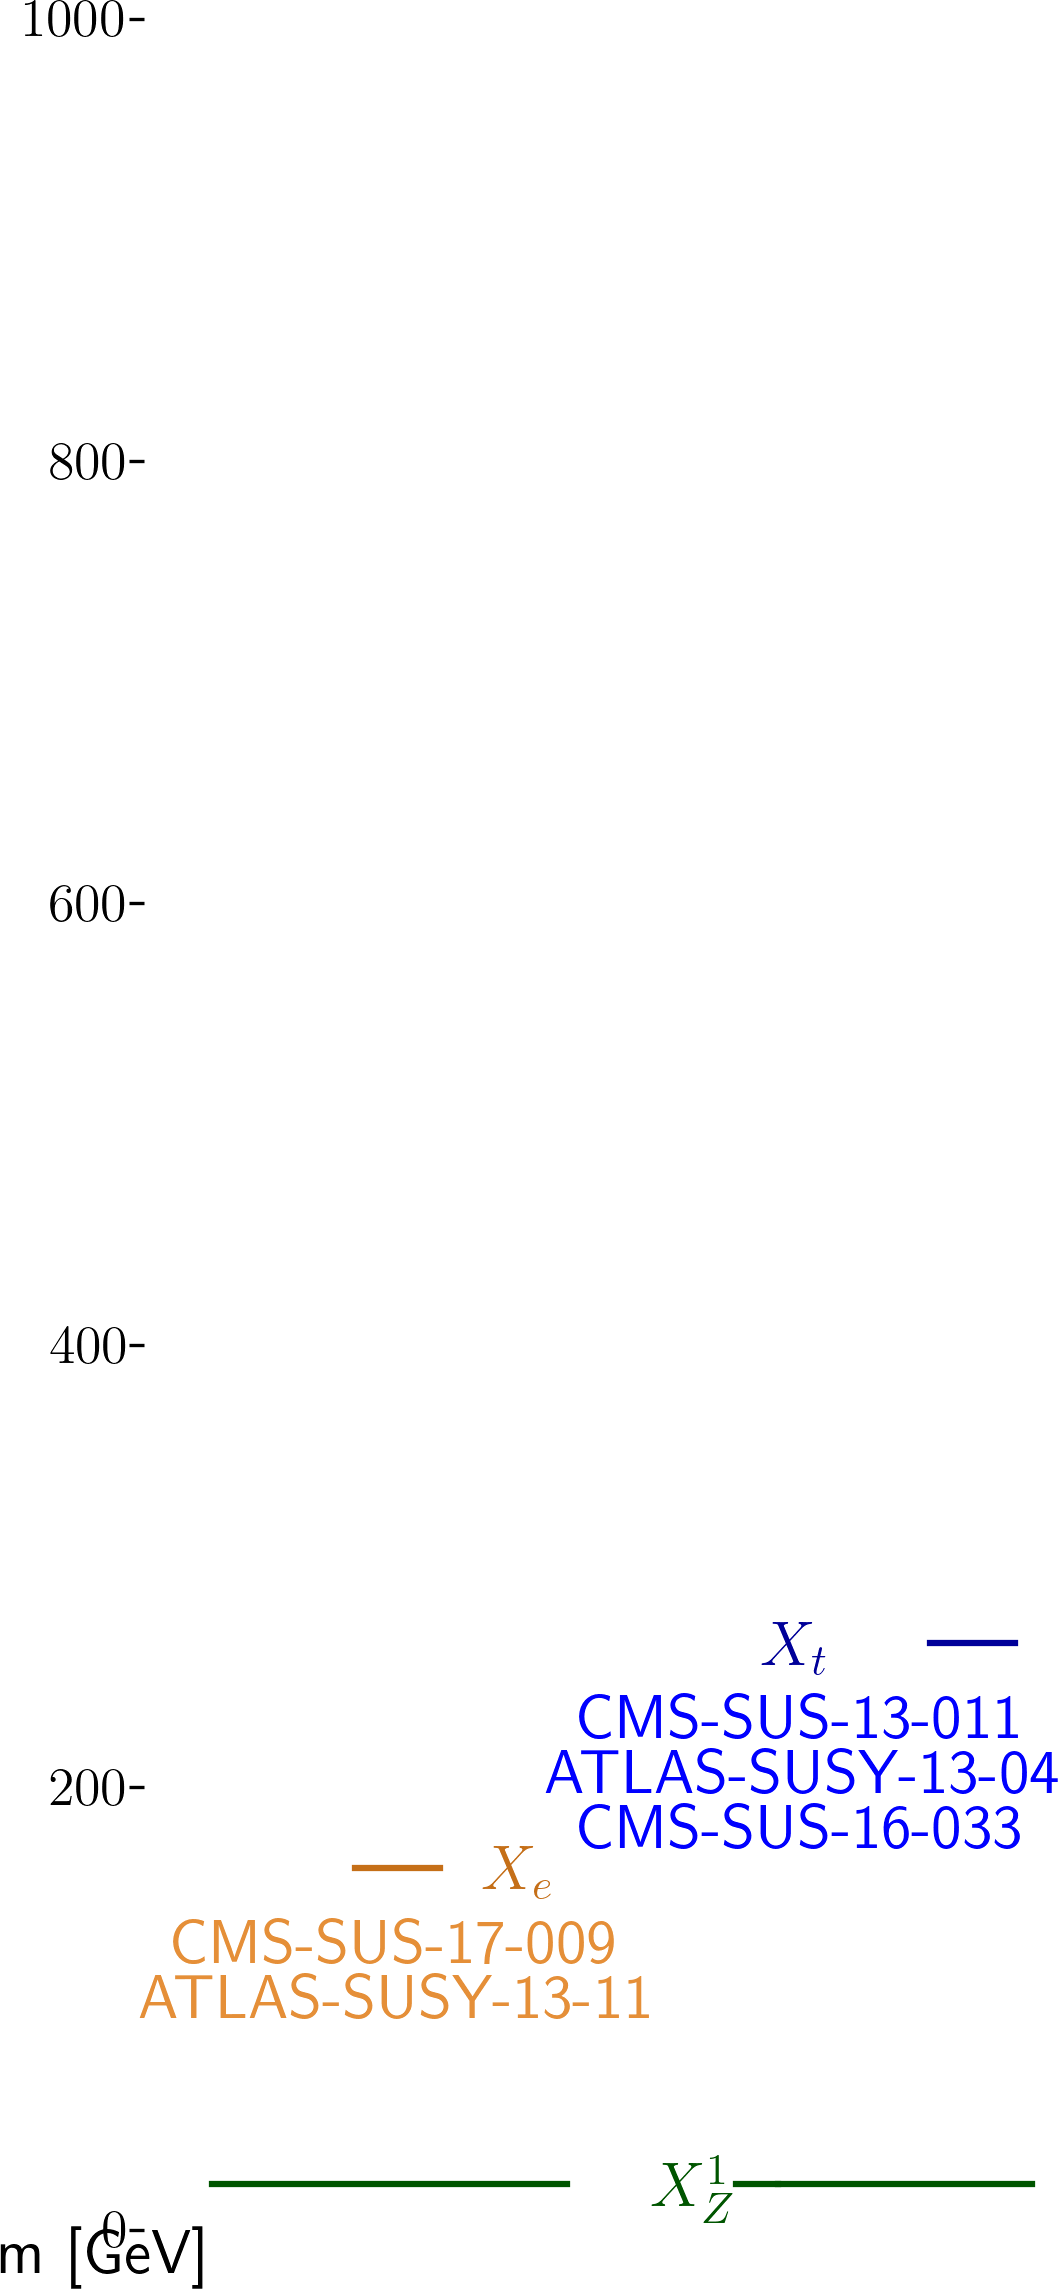
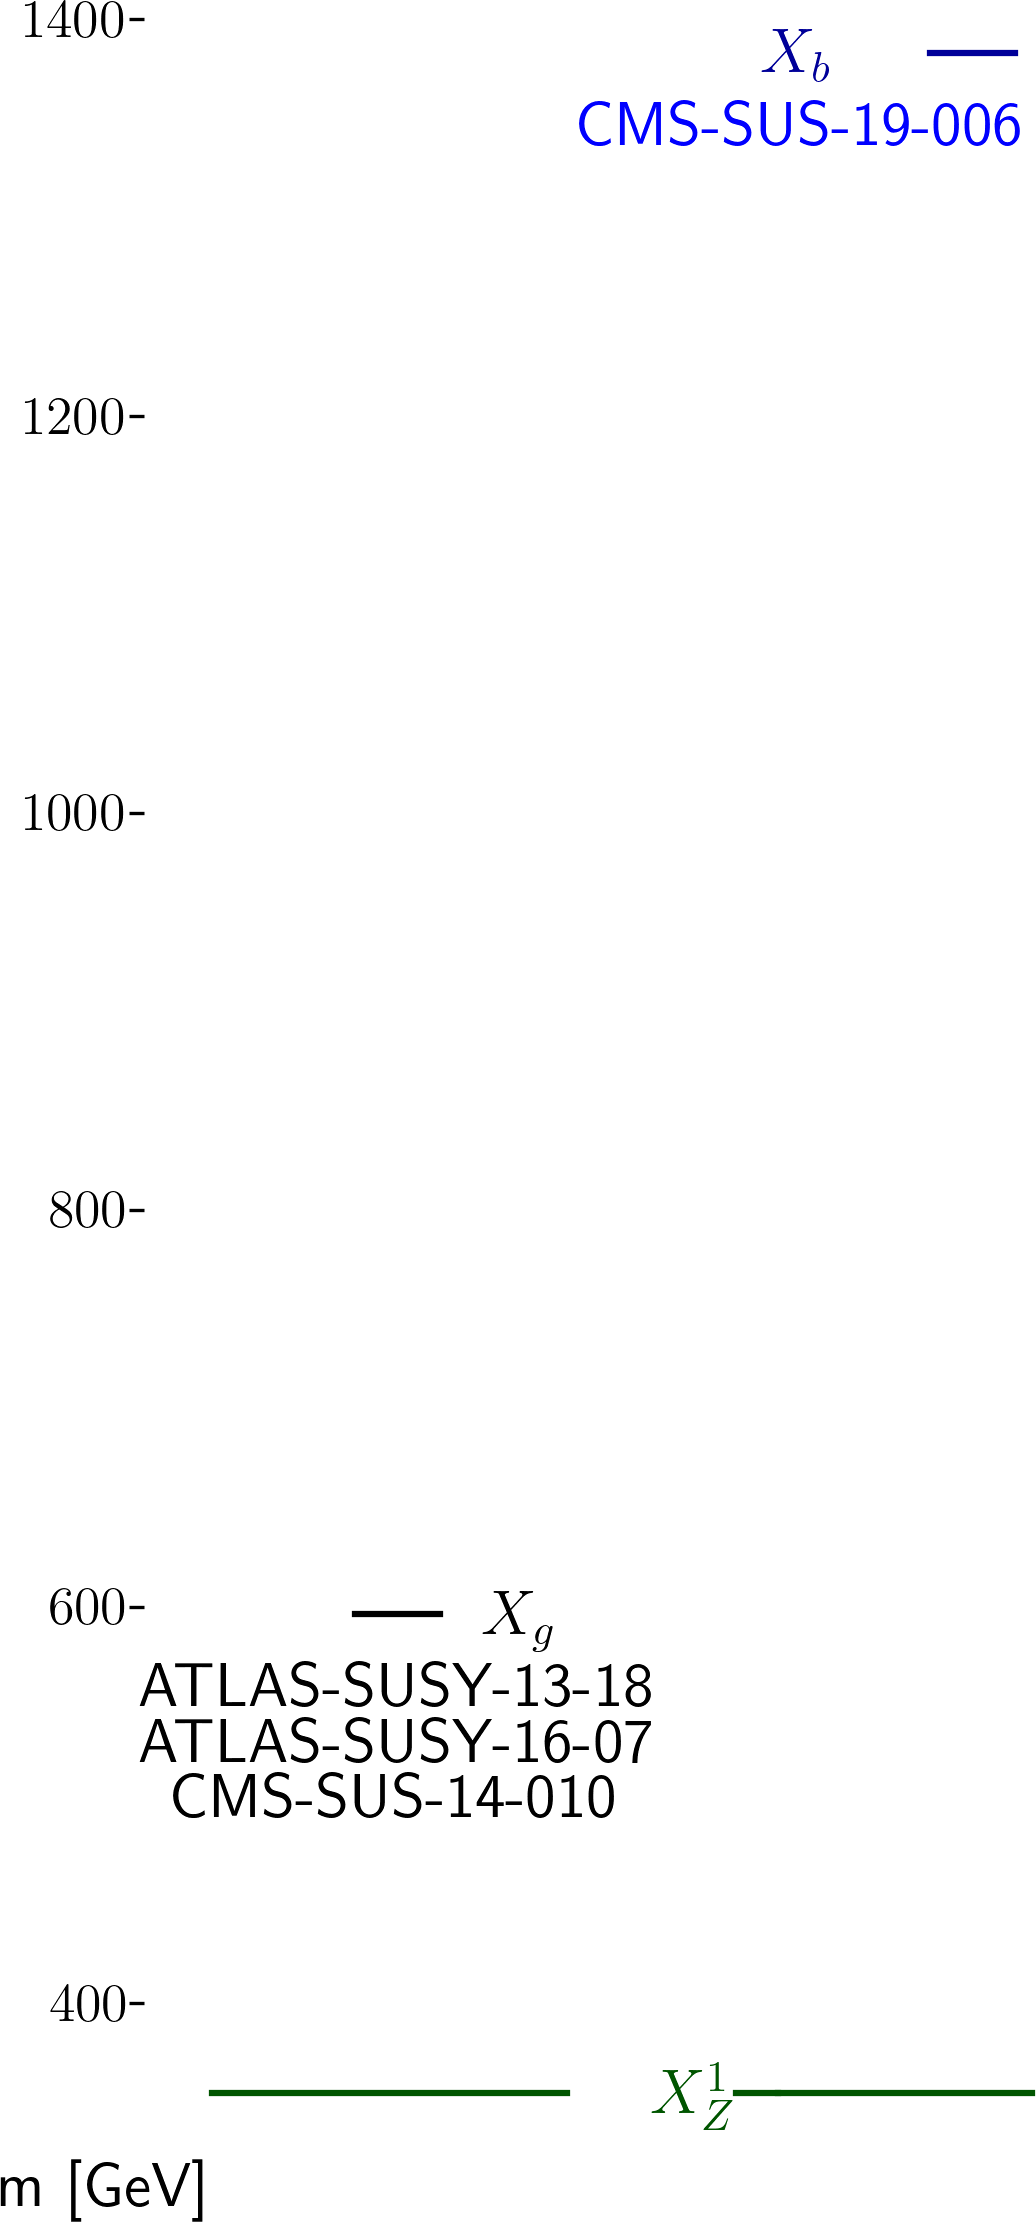
automated update by plotHiscore.py to /scratch-cbe/users/wolfgan.waltenberger/git/smodels.github.io/protomodels/latest/

diff --git a/protomodels/latest/index.html b/protomodels/latest/index.html
@@ -1,30 +1,29 @@
 <html>
 <body>
 <center>
-<table><td><h1>Current best protomodel: K=11.70</h1><td><img height=60px src=https://smodels.github.io/pics/banner.png></table>
+<table><td><h1>Current best protomodel: K=15.45</h1><td><img height=60px src=https://smodels.github.io/pics/banner.png></table>
 </center>
-<b><a href=./hiscore.slha>ProtoModel</a> <a href=./pmodel.py>(dict)</a> produced with <a href=https://smodels.github.io/docs/Validation124fake29>database v1.2.4fake29</a>, combination strategy <a href=./matrix_aggressive.png>aggressive</a> in walker 27 step 290.</b> K plots for: <a href=./M1000022.png?13683108>X<sub>Z</sub><sup>1</sup></a>, <a href=./M1000006.png?13683108>X<sub>t</sub></a>, <a href=./M1000011.png?13683108>X<sub>e</sub></a>. HPD plots for: <a href=./llhd1000006.png?13683108>X<sub>t</sub></a>, <a href=./llhd1000011.png?13683108>X<sub>e</sub></a>. SSM plots for: <a href=./ssm_-1000006_1000006.png?13683108>(x&#772;<sub>t</sub>,X<sub>t</sub>)</a><br>
+<b><a href=./hiscore.slha>ProtoModel</a> <a href=./pmodel.py>(dict)</a> produced with <a href=https://smodels.github.io/docs/Validation124fake15>database v1.2.4fake15</a>, combination strategy <a href=./matrix_aggressive.png>aggressive</a> in walker 32 step 222.</b> K plots for: <a href=./M1000022.png?13729117>X<sub>Z</sub><sup>1</sup></a>, <a href=./M1000005.png?13729117>X<sub>b</sub></a>, <a href=./M1000021.png?13729117>X<sub>g</sub></a>. HPD plots for: <a href=./llhd1000005.png?13729117>X<sub>b</sub></a>, <a href=./llhd1000021.png?13729117>X<sub>g</sub></a>. SSM plots for: <a href=./ssm_1000021_1000021.png?13729117>(X<sub>g</sub>,X<sub>g</sub>)</a><br>
 <table width=80%>
 <tr><td>
-<br><b>30 predictions available. Highest r values are:</b><br><ul>
-<li><a href=http://cms-results.web.cern.ch/cms-results/public-results/publications/SUS-16-033/index.html>CMS-SUS-16-033</a>:T2tt r=1.30, r<sub>exp</sub>=0.82<br>
-<li><a href=https://cms-results.web.cern.ch/cms-results/public-results/publications/SUS-17-009/>CMS-SUS-17-009</a>:TSlepSlep r=1.29, r<sub>exp</sub>=2.10<br>
-<li><a href=https://atlas.web.cern.ch/Atlas/GROUPS/PHYSICS/PAPERS/SUSY-2016-24/>ATLAS-SUSY-2016-24</a>:TSlepSlep r=1.12, r<sub>exp</sub>=N/A<br>
-<li><a href=https://atlas.web.cern.ch/Atlas/GROUPS/PHYSICS/PAPERS/SUSY-2013-15/>ATLAS-SUSY-2013-15</a>:T2tt r=0.99, r<sub>exp</sub>=0.81<br>
-<li><a href=http://cms-results.web.cern.ch/cms-results/public-results/publications/SUS-16-050/index.html>CMS-SUS-16-050</a>:T2tt r=0.97, r<sub>exp</sub>=0.40<br>
+<br><b>39 predictions available. Highest r values are:</b><br><ul>
+<li><a href=http://cms-results.web.cern.ch/cms-results/public-results/publications/SUS-16-033/index.html>CMS-SUS-16-033</a>:T2bb,T1,TGQ,T2,T1bbbb r=1.15, r<sub>exp</sub>=N/A<br>
+<li><a href=https://twiki.cern.ch/twiki/bin/view/CMSPublic/PhysicsResultsSUS13007>CMS-SUS-13-007</a>:T1tttt r=1.12, r<sub>exp</sub>=N/A<br>
+<li><a href=https://atlas.web.cern.ch/Atlas/GROUPS/PHYSICS/PAPERS/SUSY-2016-07/>ATLAS-SUSY-2016-07</a>:TGQ,T1,T2 r=1.03, r<sub>exp</sub>=N/A<br>
+<li><a href=http://cms-results.web.cern.ch/cms-results/public-results/publications/SUS-16-033/index.html>CMS-SUS-16-033</a>:T2bb r=0.80, r<sub>exp</sub>=N/A<br>
+<li><a href=https://twiki.cern.ch/twiki/bin/view/CMSPublic/PhysicsResultsSUS13013>CMS-SUS-13-013</a>:T1tttt r=0.75, r<sub>exp</sub>=N/A<br>
 </ul>
 <td><br><b>K values without analyses: (contribution)</b><br>
 <ul>
-<li> <a href=https://cms-results.web.cern.ch/cms-results/public-results/publications/SUS-17-009/>CMS-SUS-17-009</a>: 6.22 (15%)
-<li> <a href=http://cms-results.web.cern.ch/cms-results/public-results/publications/SUS-16-033/index.html>CMS-SUS-16-033</a>: 6.22 (15%)
-<li> <a href=https://atlas.web.cern.ch/Atlas/GROUPS/PHYSICS/PAPERS/SUSY-2013-11/>ATLAS-SUSY-2013-11</a>: 6.22 (15%)
-<li> <a href=https://atlas.web.cern.ch/Atlas/GROUPS/PHYSICS/PAPERS/SUSY-2013-04/>ATLAS-SUSY-2013-04</a>: 5.53 (17%)
-<li> <a href=https://twiki.cern.ch/twiki/bin/view/CMSPublic/PhysicsResultsSUS13011>CMS-SUS-13-011</a>: -2.84 (39%)
-<td><img width=600px src=./texdoc.png?1606683108>
-<br><font size=-1>Last updated: Sun Nov 29 21:51:48 2020</font>
+<li> <a href=https://atlas.web.cern.ch/Atlas/GROUPS/PHYSICS/PAPERS/SUSY-2016-07/>ATLAS-SUSY-2016-07</a>: -3.05 (24%)
+<li> <a href=https://twiki.cern.ch/twiki/bin/view/CMSPublic/PhysicsResultsSUS14010>CMS-SUS-14-010</a>: -3.54 (25%)
+<li> <a href=http://cms-results.web.cern.ch/cms-results/public-results/publications/SUS-19-006/index.html>CMS-SUS-19-006</a>: -3.54 (25%)
+<li> <a href=https://atlas.web.cern.ch/Atlas/GROUPS/PHYSICS/PAPERS/SUSY-2013-18/>ATLAS-SUSY-2013-18</a>: -3.89 (26%)
+<td><img width=600px src=./texdoc.png?1606729117>
+<br><font size=-1>Last updated: Mon Nov 30 10:38:37 2020</font>
 </table><table style="width:80%">
-<td width=45%><img height=580px src=./ruler.png?1606683108><td width=55%><img height=380px src=./decays.png?1606683108>
-<font size=-3><iframe type="text/html" height="220px" width="100%s" frameborder="0" src="./rawnumbers.html?1606683108"></iframe></font>
+<td width=45%><img height=580px src=./ruler.png?1606729117><td width=55%><img height=380px src=./decays.png?1606729117>
+<font size=-3><iframe type="text/html" height="220px" width="100%s" frameborder="0" src="./rawnumbers.html?1606729117"></iframe></font>
 </table>
 </body>
 </html>

diff --git a/protomodels/latest/rawnumbers.html b/protomodels/latest/rawnumbers.html
@@ -1,9 +1,8 @@
 <table>
 <tr><th>Analysis Name</th><th>Type</th><th>Dataset</th><th>Topos</th><th>Observed</th><th>Expected</th><th>Approx &sigma;</th><th>Particles</th>
 </tr>
-<tr><td><a href=https://atlas.web.cern.ch/Atlas/GROUPS/PHYSICS/PAPERS/SUSY-2013-04/>ATLAS-SUSY-2013-04</a></td><td>em</td> <td>GtGrid_SR_8ij80 ...</td><td>T2tt</td><td>2</td><td>0.9 +/- 0.6</td><td style="text-align:right">1.0 &sigma;</td><td style="text-align:right">X<sub>t</sub></td></tr>
-<tr><td><a href=https://atlas.web.cern.ch/Atlas/GROUPS/PHYSICS/PAPERS/SUSY-2013-11/>ATLAS-SUSY-2013-11</a></td><td>em</td> <td>Zjets</td><td>TSlepSlep</td><td>2</td><td>1.4 +/- 0.6</td><td style="text-align:right">0.5 &sigma;</td><td style="text-align:right">X<sub>e</sub></td></tr>
-<tr><td><a href=https://twiki.cern.ch/twiki/bin/view/CMSPublic/PhysicsResultsSUS13011>CMS-SUS-13-011</a></td><td>em</td> <td>LM150</td><td>T2tt</td><td>413</td><td>251 +/- 50</td><td style="text-align:right">3.1 &sigma;</td><td style="text-align:right">X<sub>t</sub></td></tr>
-<tr><td><a href=http://cms-results.web.cern.ch/cms-results/public-results/publications/SUS-16-033/index.html>CMS-SUS-16-033</a></td><td>ul</td> <td>-</td><td>T2tt</td><td> 18040.6 fb </td><td> 10559.8 fb</td><td style="text-align:right">1.4 &sigma;</td><td style="text-align:right">X<sub>t</sub></td></tr>
-<tr><td><a href=https://cms-results.web.cern.ch/cms-results/public-results/publications/SUS-17-009/>CMS-SUS-17-009</a></td><td>ul</td> <td>-</td><td>TSelSel</td><td> 45.7 fb </td><td> 19.7 fb</td><td style="text-align:right">2.6 &sigma;</td><td style="text-align:right">X<sub>e</sub></td></tr>
+<tr><td><a href=https://atlas.web.cern.ch/Atlas/GROUPS/PHYSICS/PAPERS/SUSY-2013-18/>ATLAS-SUSY-2013-18</a></td><td>em</td> <td>SR-0l-4j-B</td><td>T1bbbb</td><td>3</td><td>1.3 +/- 0.9</td><td style="text-align:right">1.2 &sigma;</td><td style="text-align:right">X<sub>g</sub></td></tr>
+<tr><td><a href=https://atlas.web.cern.ch/Atlas/GROUPS/PHYSICS/PAPERS/SUSY-2016-07/>ATLAS-SUSY-2016-07</a></td><td>em</td> <td>2j_Meff_1200</td><td>T1, T2, TGQ</td><td>543</td><td>526 +/- 31</td><td style="text-align:right">0.4 &sigma;</td><td style="text-align:right">X<sub>g</sub></td></tr>
+<tr><td><a href=https://twiki.cern.ch/twiki/bin/view/CMSPublic/PhysicsResultsSUS14010>CMS-SUS-14-010</a></td><td>ul</td> <td>-</td><td>T1tttt</td><td> 816.2 fb </td><td> 301.8 fb</td><td style="text-align:right">3.3 &sigma;</td><td style="text-align:right">X<sub>g</sub></td></tr>
+<tr><td><a href=http://cms-results.web.cern.ch/cms-results/public-results/publications/SUS-19-006/index.html>CMS-SUS-19-006</a></td><td>ul</td> <td>-</td><td>T2bb</td><td> 2.9 fb </td><td> 1.4 fb</td><td style="text-align:right">2.1 &sigma;</td><td style="text-align:right">X<sub>b</sub></td></tr>
 </table>

diff --git a/protomodels/latest/pmodel.py b/protomodels/latest/pmodel.py
@@ -1,1 +1,1 @@
-{'masses': {1000022: 10.834, 1000006: 255.3, 1000011: 153.62}, 'ssmultipliers': {(1000022, 1000022): 0.226, (1000006, 1000006): 0.222, (-1000006, 1000006): 0.222, (-1000006, -1000006): 0.222, (1000006, 1000022): 0.222, (-1000006, 1000022): 1.008, (1000011, 1000011): 1.288, (-1000011, 1000011): 1.288, (-1000011, -1000011): 1.288, (1000011, 1000022): 1.288, (-1000011, 1000022): 1.288, (1000006, 1000011): 1.127, (-1000011, 1000006): 1.127, (-1000006, 1000011): 1.127, (-1000011, -1000006): 1.127}, 'decays': {1000022: {}, 1000006: {(1000022, 6): 1.0}, 1000011: {(1000022, 11): 1.0}}, 'timestamp': 'Sun Nov 29 21:51:40 2020', 'Z': 3.901, 'K': 11.695, 'walkerid': 27, 'step': 290, 'codever': '1.0', 'dbver': '1.2.4fake29'}
+{'masses': {1000022: 344.887, 1000021: 586.346, 1000005: 1372.859}, 'ssmultipliers': {(1000022, 1000022): 0.993, (1000021, 1000021): 0.743, (1000021, 1000022): 0.058, (1000005, 1000005): 1.514, (-1000005, 1000005): 1.514, (-1000005, -1000005): 1.514, (1000005, 1000022): 1.514, (-1000005, 1000022): 1.514, (1000005, 1000021): 0.822, (-1000005, 1000021): 1.547}, 'decays': {1000022: {}, 1000021: {(1000022, 6): 0.703, (1000022, 5): 0.074, (1000022, 21): 0.071, (1000022, 1): 0.074, (1000022, 4): 0.077}, 1000005: {(1000022, 5): 1.0}}, 'timestamp': 'Mon Nov 30 10:38:27 2020', 'Z': 4.413, 'K': 15.446, 'walkerid': 32, 'step': 222, 'codever': '1.0', 'dbver': '1.2.4fake15'}
